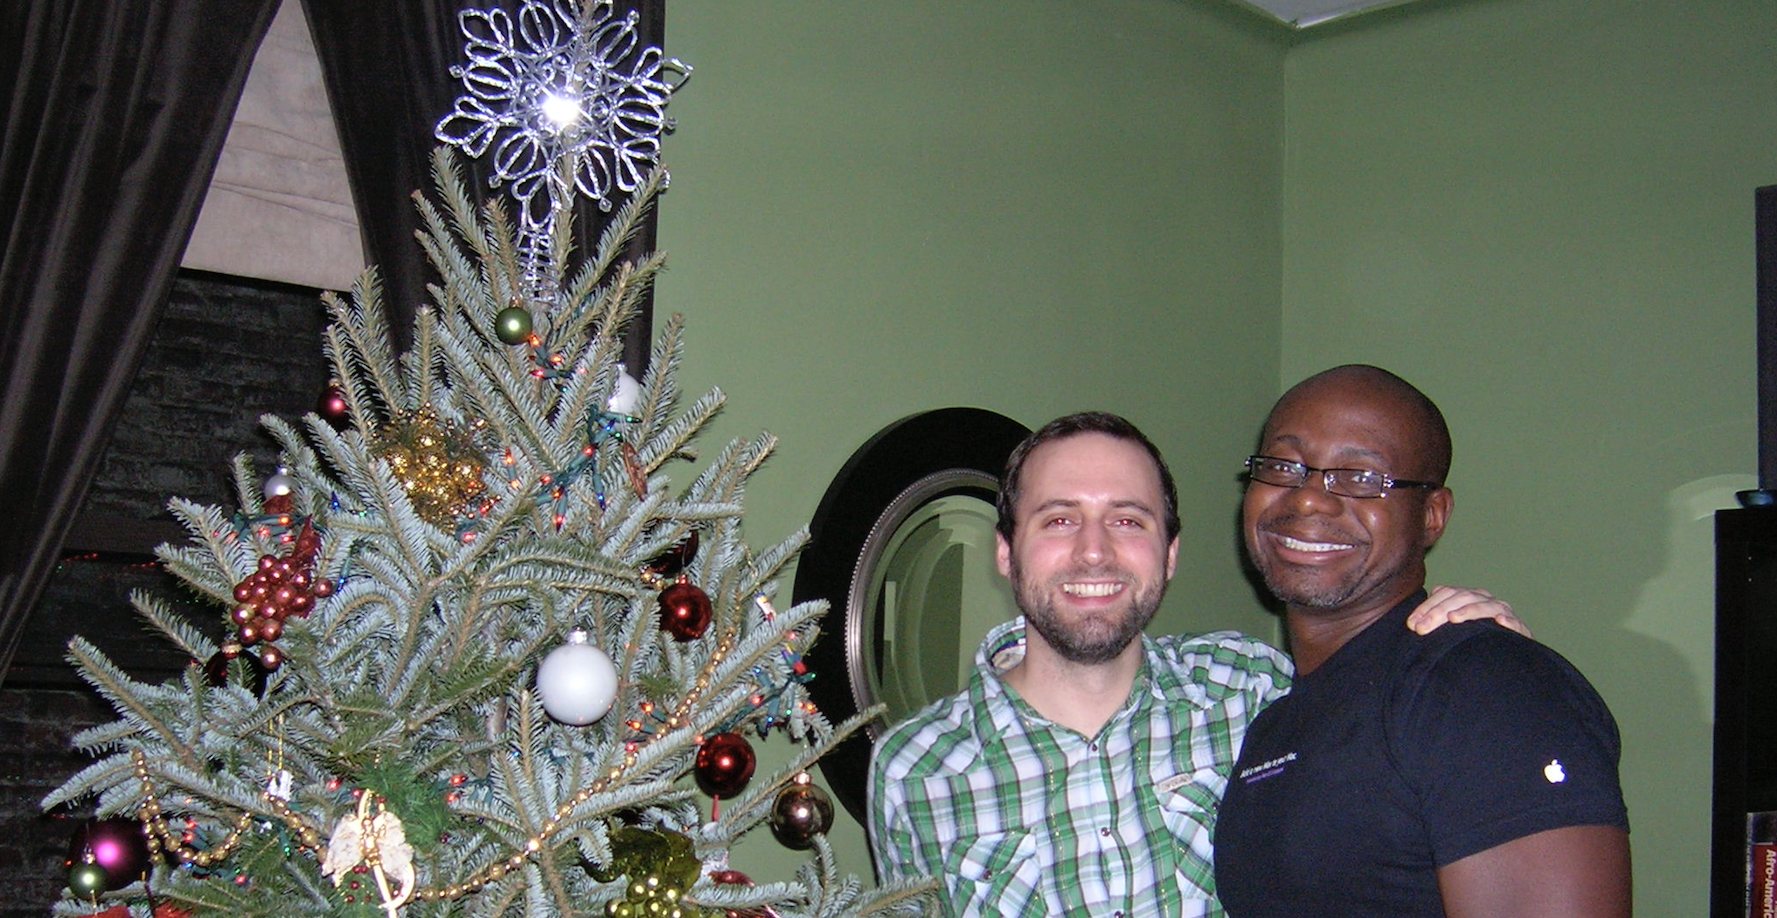
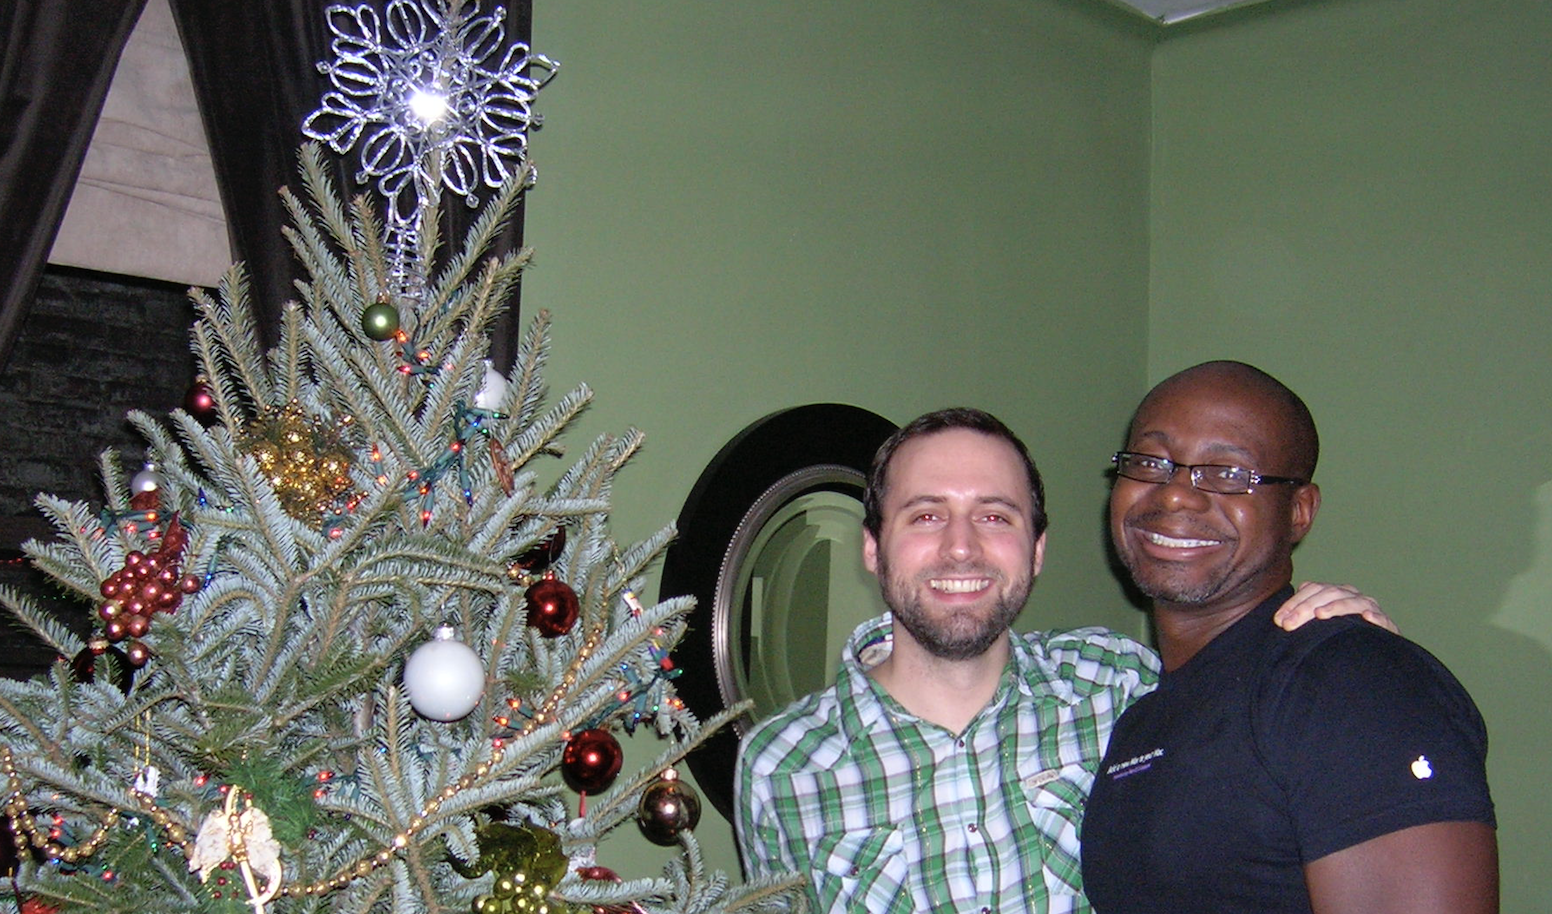
remove duplicate xmas and serve smaller image

diff --git a/src/components/Photos.js b/src/components/Photos.js
@@ -26,13 +26,7 @@ function Photos(){
 					</Slide>
 					<Slide
 						id="photo-slide"
-						src="/images/first-xmas-12-25-08.jpg"
-						title="Our First Christmas 12-25-08"
-						placement="left">
-					</Slide>
-					<Slide
-						id="photo-slide"
-						src="/images/first-xmas-12-25-08.jpg"
+						src="/images/first-xmas-12-25-08.png"
 						title="Our First Christmas 12-25-08"
 						placement="left">
 					</Slide>
